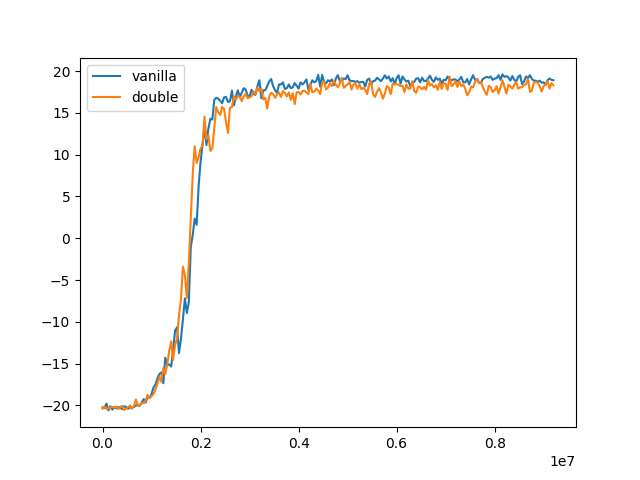
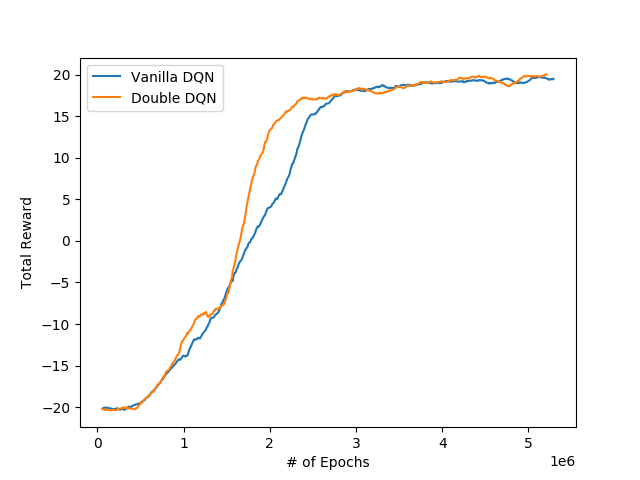
3/1

diff --git a/hw3/draw.py b/hw3/draw.py
@@ -1,0 +1,20 @@
+#!/usr/bin/env python3
+
+import os, pickle
+from pylab import *
+
+def get_data(filename):
+	d = pickle.loads(open(filename,'rb').read())
+	return d['time'], d['reward']
+
+v_t, v_r = get_data(os.path.join('data', 'vanilla_PongNoFrameskip-v4.pkl'))
+d_t, d_r = get_data(os.path.join('data', 'double_PongNoFrameskip-v4.pkl'))
+figure()
+p = subplot(111)
+p.plot(v_t, v_r, '-', label='Vanilla DQN')
+p.plot(d_t, d_r, '-', label='Double DQN')
+p.set_xlabel('# of Epochs')
+p.set_ylabel('Total Reward')
+p.legend()
+ticklabel_format(style='sci', axis='x', scilimits=(0,0))
+savefig(os.path.join('result', 'PongNoFrameskip-v4.png'))

diff --git a/hw3/README.md b/hw3/README.md
@@ -18,3 +18,7 @@ The only files that you need to look at are `dqn.py` and `train_ac_f18.py`, whic
 See the [HW3 PDF](http://rail.eecs.berkeley.edu/deeprlcourse/static/homeworks/hw3.pdf) for further instructions.
 
 The starter code was based on an implementation of Q-learning for Atari generously provided by Szymon Sidor from OpenAI.
+
+# Run Experiments
+
+Just type `./run.sh`
